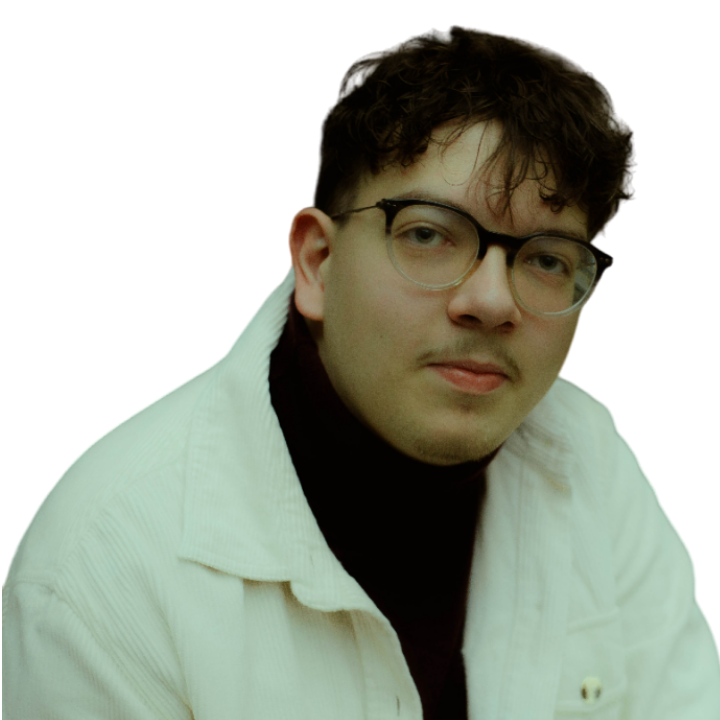
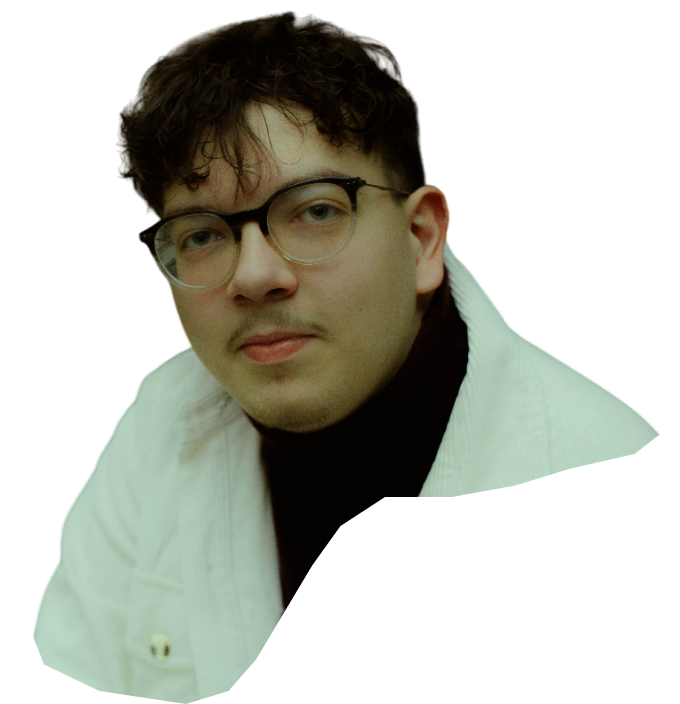
feat: refonte Presentation Part

diff --git a/src/app/app.component.html b/src/app/app.component.html
@@ -85,29 +85,17 @@
   <section id="About" class="mt-10">
     <!-- <img src="../assets/nuage1.png" alt="" id="cloud" class="absolute hidden desktop:flex mt-10"> -->
 
-    <h1 class="text-transparent bg-clip-text bg-gradient-to-r from-blanc to-jaune phone:text-lg desktop:text-2xl desktop:mr-20 phone:text-center desktop:text-right font-swap py-4">PRÉSENTATION</h1>
+    <h1 class="text-transparent bg-clip-text bg-gradient-to-r from-jaune to-blanc phone:text-lg desktop:text-2xl desktop:ml-20 phone:text-center desktop:text-left font-swap py-4">PRÉSENTATION</h1>
     
    
-    <div class="flex justify-center">
-    <div class="desktop:grid desktop:grid-cols-2 mt-10">
-      <!-- <div class="grid-cols-1">
-        <div class="flex justify-center">
-          <img src="../assets/marwin.png" alt="" class="relative w-1/2 rounded-full z-10">
-        </div>
-        <div class="desktop:flex desktop:justify-center">
-          <div class="desktop:w-80 phone:w-32 absolute z-0 desktop:-mt-64 phone:-mt-40 desktop:h-72 phone:h-40 desktop:left-48 phone:left-32 rounded-full bg-jaune blur-lg"></div>
-        </div>
-      </div> -->
-      <div class="grid-cols-1">
-        <div class="flex justify-center">
-          <img src="../assets/Me.png" alt="" class="relative phone:scale-75 desktop:scale-150 z-10">
-        </div>
-      </div>
-      <div class="grid-cols-2">
+    <div class="flex justify-center relative">
+    <div class="desktop:grid desktop:grid-cols-2 mt-10 list-item items-center">
+
+      <div class="grid-cols-2 desktop:ml-11 z-20">
         <h2 class="desktop:text-lg phone:ml-2 desktop:ml-0" >Marwin RODRIGUES</h2>
         <h3 class="desktop:text-base text-jaune phone:ml-2 desktop:ml-0">WebMaster Junior</h3>
 
-        <p class="desktop:text-3xs phone:text-5xs text-opacity-75 mt-4 w-10/12 phone:ml-2 desktop:ml-0">Étudiant agé de 22 ans, actuellement en troisième année au <a href="#"><span class="text-jaune hover:underline hover:animate-pulse"> MMI Montbéliard </span></a> et apprentis développeur web chez <a href="#"><span class="text-jaune hover:underline hover:animate-pulse"> Forvia</span></a>. Passionné par le web, l'Animation et le football.</p>
+        <p class="desktop:text-3xs phone:text-5xs text-opacity-75 mt-4 w-10/12 phone:ml-2 desktop:ml-0">Fraichement Diplômé d’un BUT MMI à <a href="#"><span class="text-jaune hover:underline hover:animate-pulse"> MMI Montbéliard </span></a>, je possède une expertise en développement web, communication digital & print, UX/UI, et programmation de jeux vidéo. Déterminé à évoluer en tant que développeur front-end, mon objectif est d'atteindre le poste de directeur de projet web. Motivé et prêt à contribuer à des projets web de haut niveau.</p>
       
         <ul class="theme-list mt-5 phone:ml-2 desktop:ml-0">
             <li><b>Réside:</b> Montbéliard, FR</li>
@@ -120,8 +108,16 @@
           <a href="/Marwin-RODRIGUES_CV.pdf" target="_blank"><button class="rounded-full border-2 border-jaune px-2 py-1 hover:bg-jaune hover:text-white hover:scale-110 duration-300">Voir mon CV</button></a>
           </div>
       
+      </div>
+
+            <div class="grid-cols-1">
+        <div class="flex justify-center">
+          <img src="../assets/Marwin.png" alt="" class="absolute desktop:scale-95 phone:w-1/2  phone:-bottom-60 phone:right-9 desktop:w-max desktop:-top-16 desktop:right-52">
         </div>
       </div>
+
+      </div>
+      <img src="../assets/wave_profil.svg" alt="" class="absolute z-10 w-full phone:-bottom-60">
     </div> 
 
     <!-- <img src="../assets/nuage2.png" alt="" id="cloud" class="absolute right-56 w-1/12 z-0 hidden desktop:flex -mt-2">
@@ -129,9 +125,8 @@
 
   </section>
 
-  <div class="mt-32 h-2 bg-jaune blur"></div>
-  <section id="Compet" class="border-t-2 bg-blanc bg-opacity-80 pb-8 pt-3 shadow-lg shadow-jaune" >
-    <h1 class="text-transparent bg-clip-text bg-gradient-to-r from-noir to-jaune desktop:text-2xl desktop:mr-20 text-left font-swap">COMPÉTENCES</h1>
+  <section id="Compet" class="bg-blanc bg-opacity-80 pb-8 pt-3 mt-52" >
+    <h1 class="text-transparent bg-clip-text bg-gradient-to-r from-jaune to-noir desktop:text-2xl desktop:mr-20 text-right font-swap">COMPÉTENCES</h1>
 
 
     <div class="flex justify-center"><div class="grid desktop:grid-cols-4 desktop:gap-x-24 desktop:gap-y-4 phone:gap-y-16 mb-24">
@@ -759,7 +754,7 @@
   </section>
 
   <section id="Cursus" class="mt-4 shadow-lg shadow-jaune pb-4 z-10">
-    <h1 class="text-transparent bg-clip-text bg-gradient-to-r from-noir to-jaune desktop:text-2xl desktop:mr-20 text-right font-swap">PARCOURS</h1>
+    <h1 class="text-transparent bg-clip-text bg-gradient-to-r from-jaune to-noir desktop:text-2xl desktop:ml-20 text-left font-swap">PARCOURS</h1>
 
     <div class="container pt-5 flex justify-center">
       <div class="desktop:flex phone:grid justify-center gap-52">

diff --git a/src/app/card-project/card-project.component.html b/src/app/card-project/card-project.component.html
@@ -10,6 +10,7 @@
 
         <!-- Description -->
         <div class="absolute z-50 w-1.5">
+            <div class="w-full h-full bg-blue"></div>
             <p>Description Project</p>
         </div>
 
